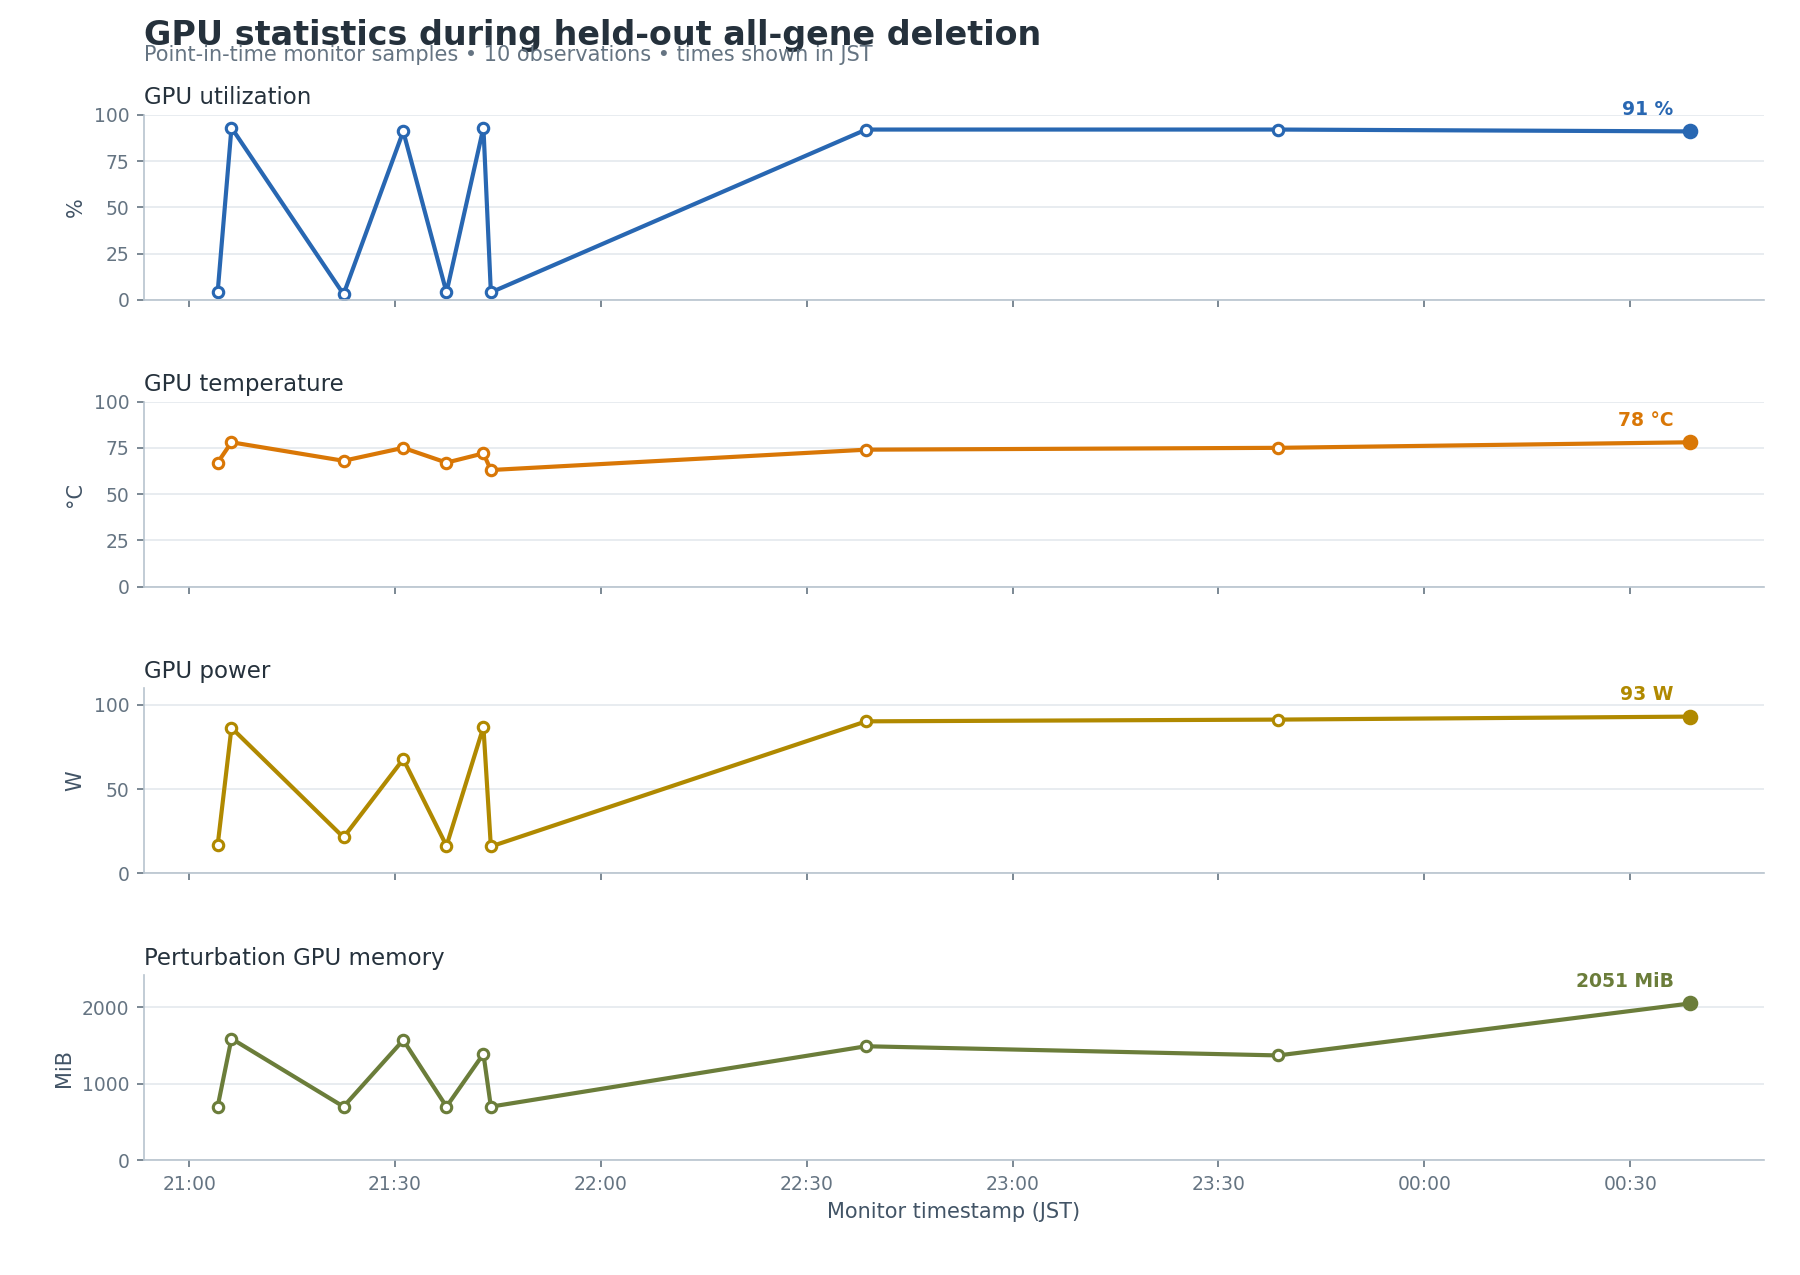
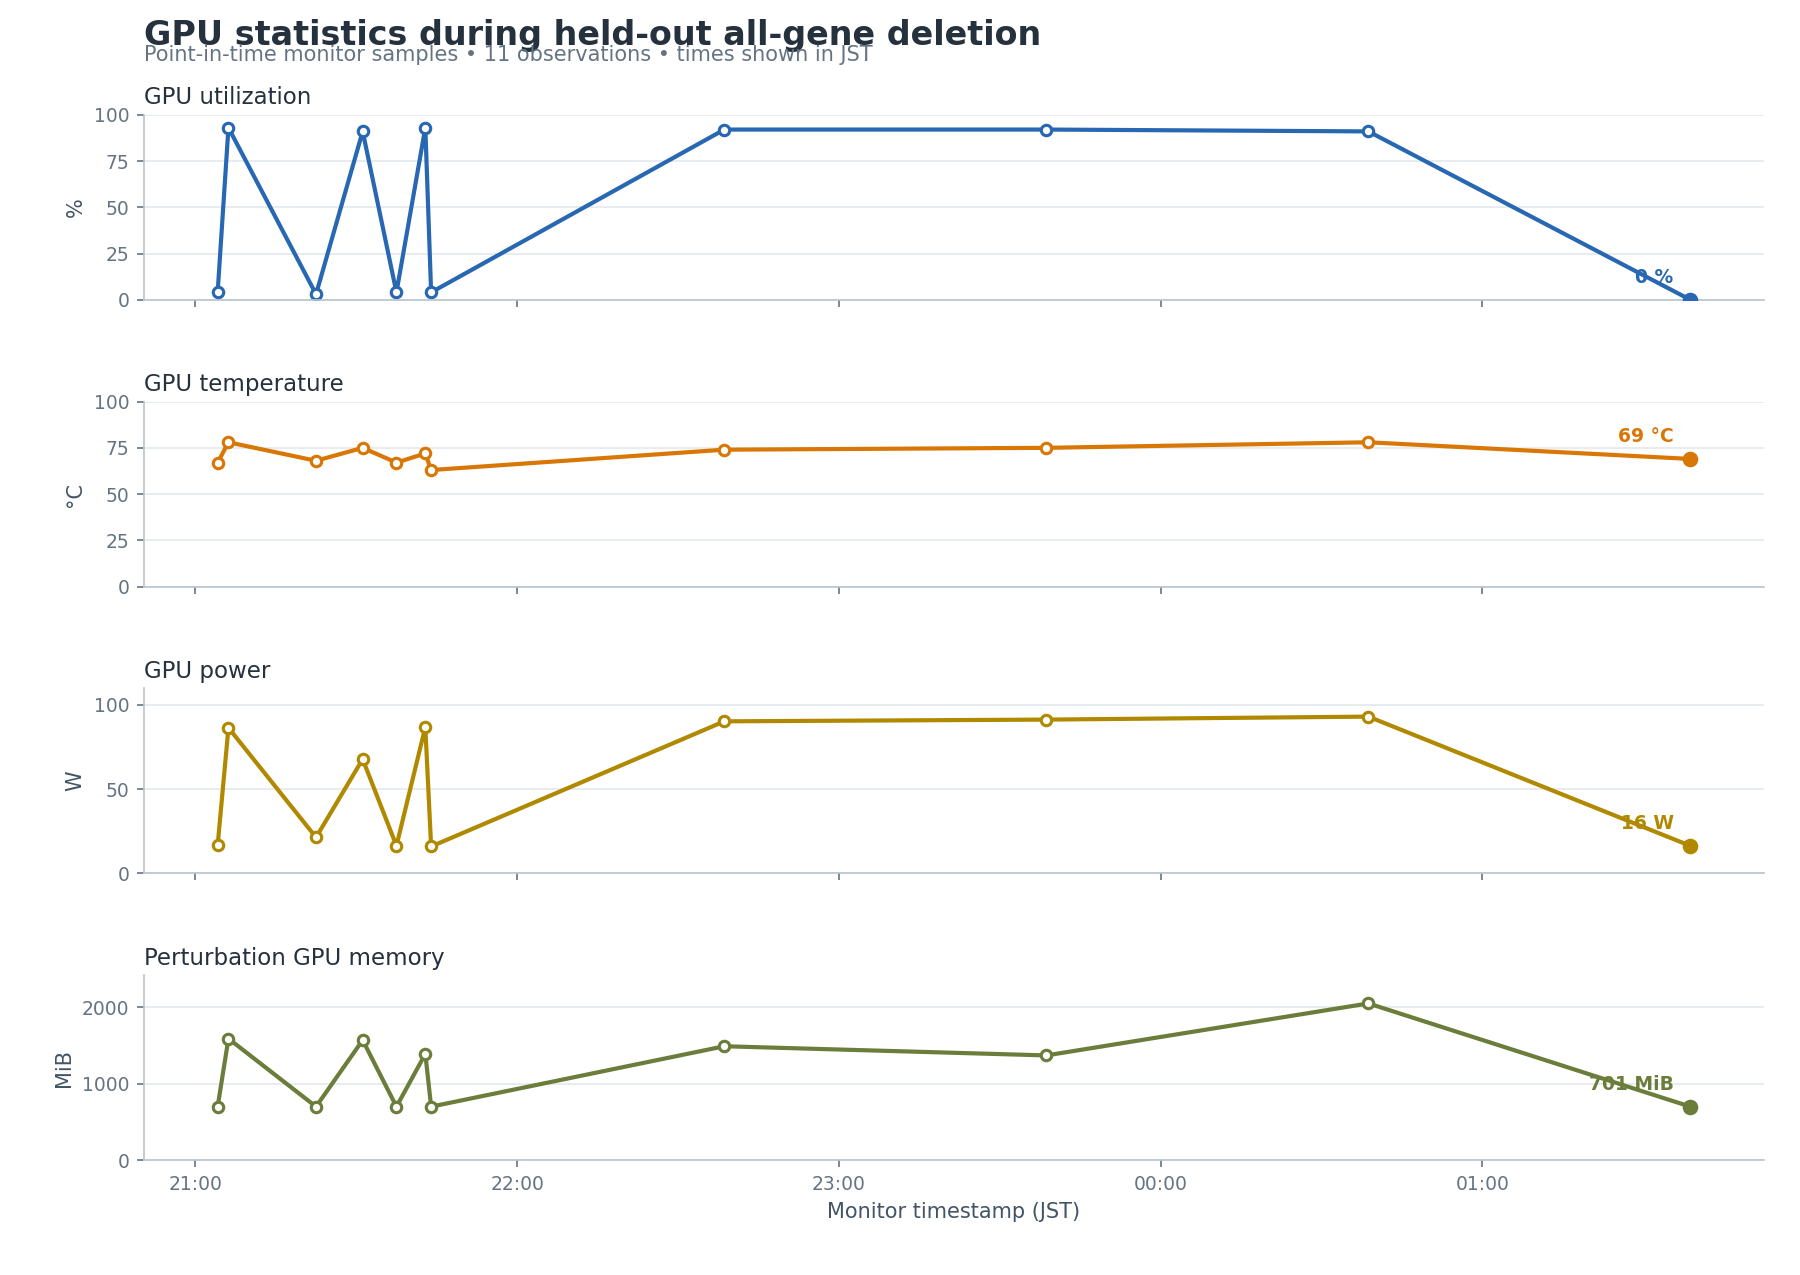
monitor: update perturbation status 2026-07-18 01:38 JST

diff --git a/current_workflow/monitoring/GPU_PROGRESS_REPORT.md b/current_workflow/monitoring/GPU_PROGRESS_REPORT.md
@@ -14,6 +14,39 @@ Newest snapshots appear first. Existing entries are retained below; the machine-
 
 ---
 
+## Snapshot — 2026-07-18T01:38:49+09:00
+
+Run status: **RUNNING**
+
+Overall cell progress: **769 / 3,379 (22.76%)**
+
+### GPU and memory
+
+| Metric | Current value |
+|---|---:|
+| GPU | NVIDIA GB10 |
+| GPU utilization | 0% |
+| GPU temperature | 69 C |
+| GPU power | 16.4 W |
+| Perturbation GPU memory | 701 MiB |
+| System memory used | 40.9 GiB |
+| System memory available | 78.8 GiB |
+| Swap used | 0.0 GiB |
+
+### Perturbation progress
+
+| Source | Cells written | Shards complete | Raw files |
+|---|---:|---:|---:|
+| LUSC | 560 / 560 (100.00%) | 23 / 23 | 1,120 |
+| LUAD | 209 / 1,411 (14.81%) | 8 / 57 | 418 |
+| NORMAL | 0 / 1,408 (0.00%) | 0 / 57 | 0 |
+
+Statistics are generated after all shards for a source state complete. Cell
+counts include only cells with both raw checkpoint batches present.
+
+
+---
+
 ## Snapshot — 2026-07-18T00:38:46+09:00
 
 Run status: **RUNNING**
